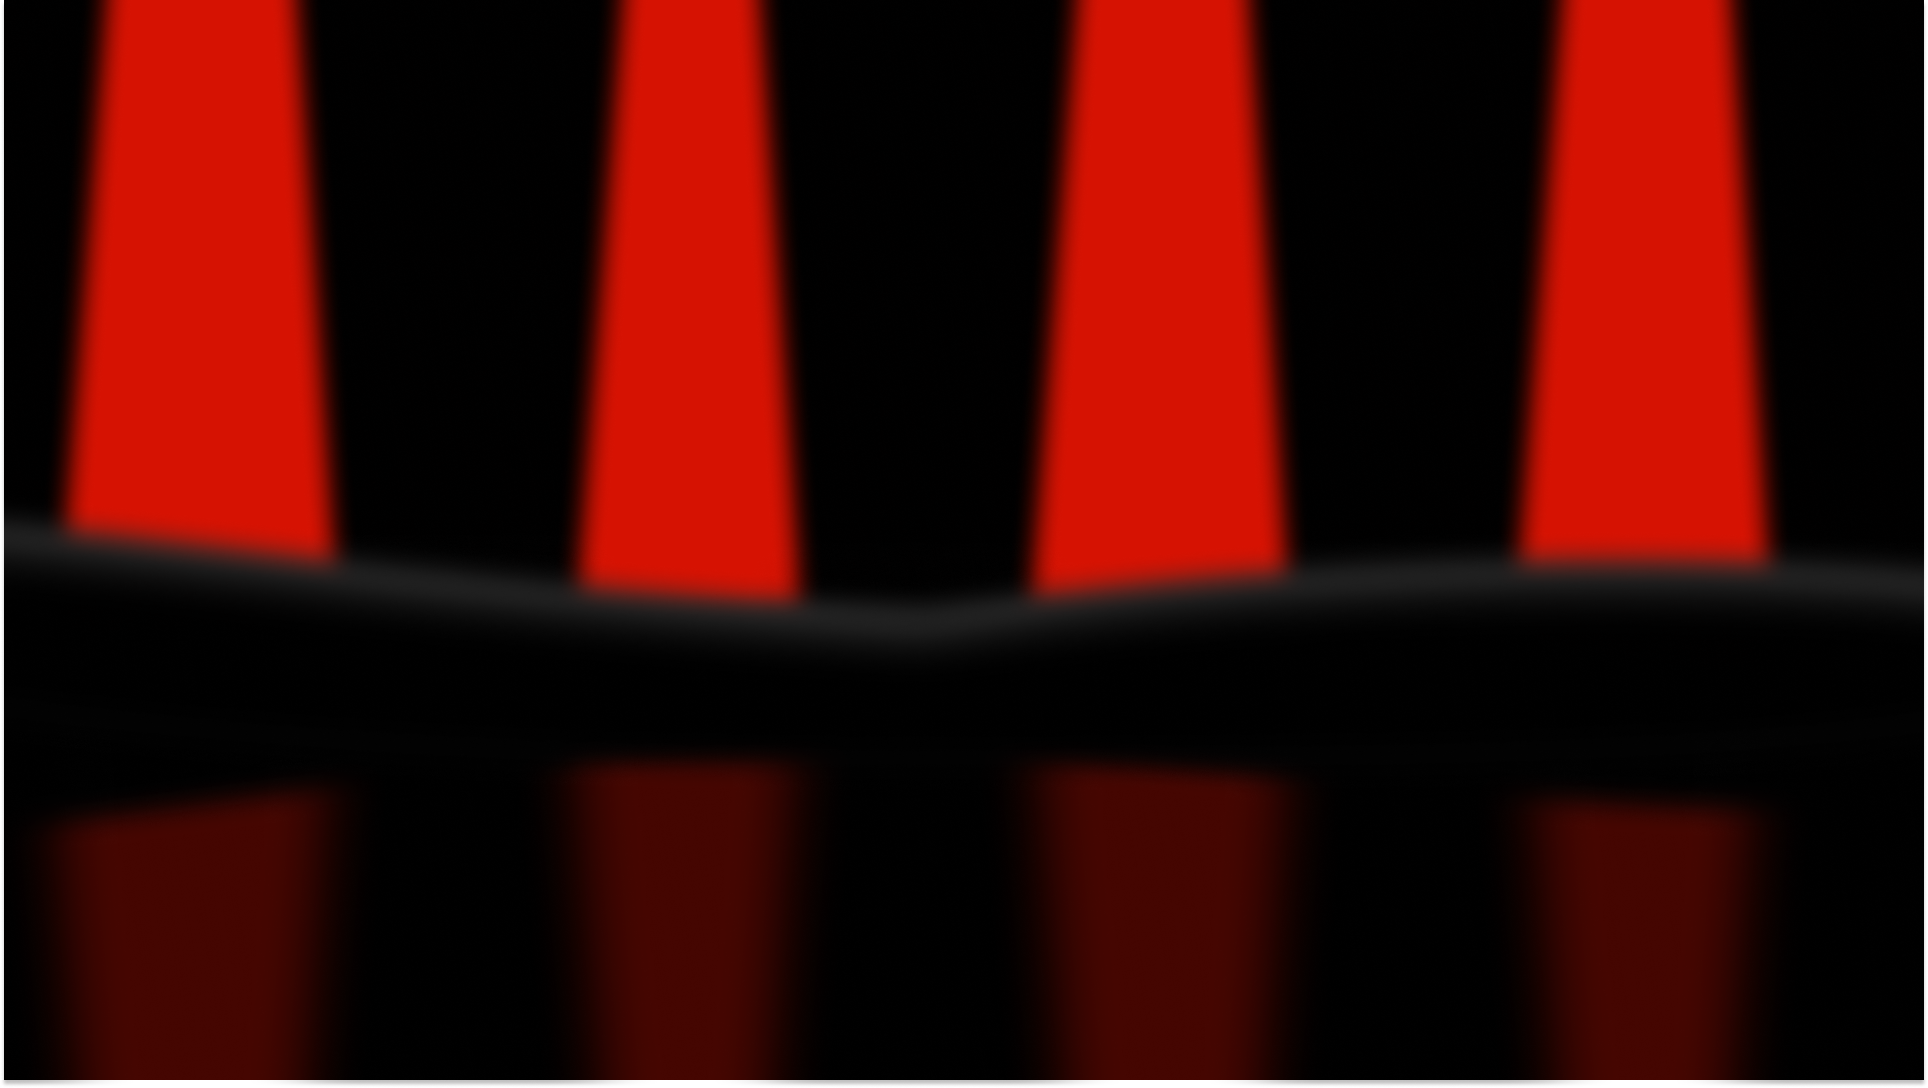
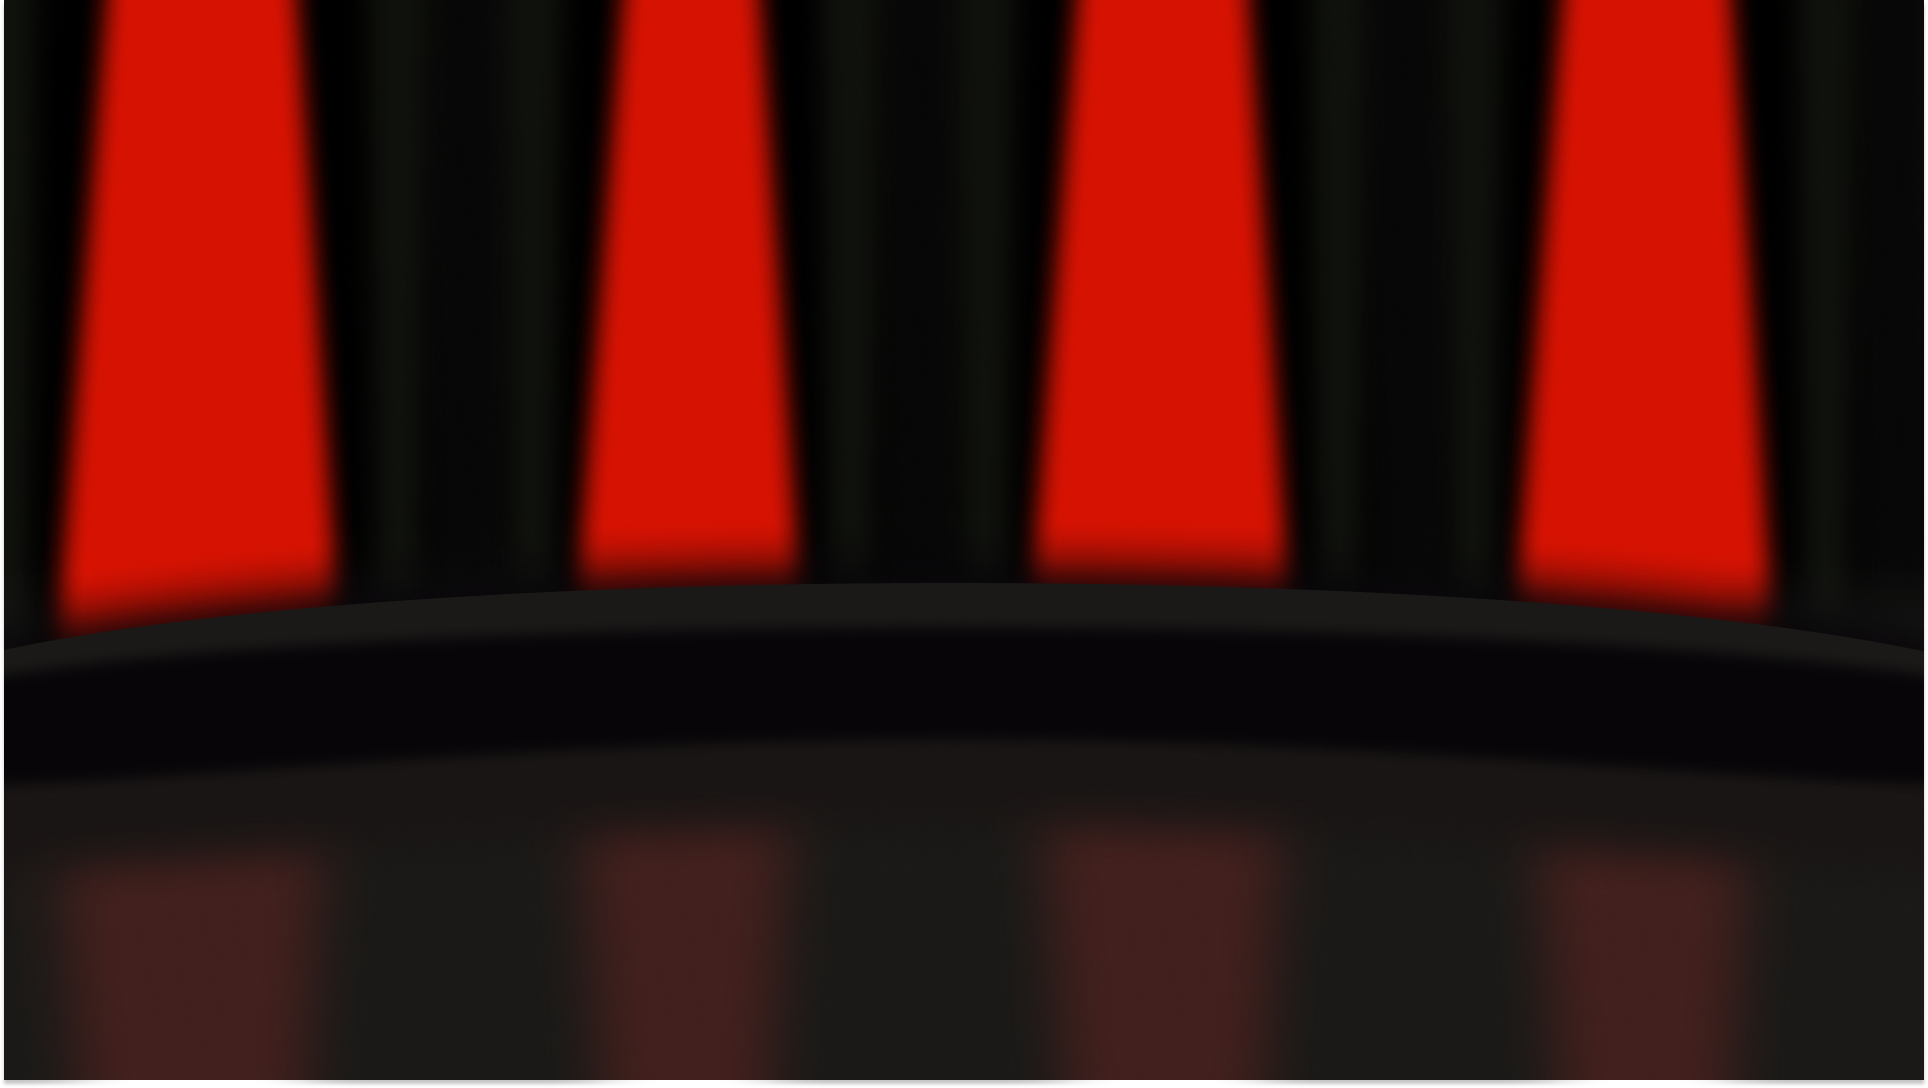
fix: fix background

diff --git a/components/main-3Dmodel/components/glassballwithsmallballs.tsx b/components/main-3Dmodel/components/glassballwithsmallballs.tsx
@@ -38,16 +38,16 @@ const cylinderGlassProps = {
 const cylinderMeshData = [
   { position: [0, 3.45, 0], args: [0.45, 0.45, 0.1, 40] },
   { position: [0, 3.32, 0], args: [0.45, 0.45, 0.1, 40] },
-  { position: [0, 4.3, 0], args: [0.45, 0.45, 0.06, 40] },
-  { position: [0, 4.37, 0], args: [0.45, 0.45, 0.06, 40] },
-  { position: [0, 5.3, 0], args: [0.45, 0.45, 0.06, 40] },
-  { position: [0, 5.23, 0], args: [0.45, 0.45, 0.06, 40] },
+  { position: [0, 4.25, 0], args: [0.45, 0.45, 0.06, 40] },
+  { position: [0, 4.32, 0], args: [0.45, 0.45, 0.06, 40] },
+  { position: [0, 5.33, 0], args: [0.45, 0.45, 0.06, 40] },
+  { position: [0, 5.26, 0], args: [0.45, 0.45, 0.06, 40] },
 ];
 
 const cylinderGlassMeshData = [
   { position: [0, 3.9, 0], args: [0.26, 0.26, 0.8, 40] },
   { position: [0, 5.9, 0], args: [0.26, 0.26, 1.3, 40] },
-  { position: [0, 5.6, 0], args: [0.4, 0.4, 0.06, 40] },
+  { position: [0, 5.6, 0], args: [0.4, 0.4, 0.08, 40] },
   { position: [0, 5.9, 0], args: [0.4, 0.4, 0.06, 40] },
   { position: [0, 6.2, 0], args: [0.4, 0.4, 0.06, 40] },
   { position: [0, 6.5, 0], args: [0.4, 0.4, 0.06, 40] },
@@ -86,10 +86,26 @@ const GlassBallWithSmallBalls = ({ cameraRef }) => {
   }, []);
 
   const startZoomAnimation = () => {
+    const is530 = window.matchMedia("(max-width: 530px)").matches;
+    const is768 = window.matchMedia("(max-width: 768px)").matches;
+    const is1024 = window.matchMedia("(max-width: 1024px)").matches;
+    const is1440 = window.matchMedia("(max-width: 1440px)").matches;
+    const isLargeScreen = window.matchMedia("(min-width: 1440px)").matches;
+
     gsap.to(cameraRef.current.position, {
-      x: -1,
+      x: is530
+        ? 0
+        : is768
+          ? -0.4
+          : is1024
+            ? -0.6
+            : is1440
+              ? -1.4
+              : isLargeScreen
+                ? -1
+                : -1, // Adjust x position for large screens
       y: 4.8,
-      z: 18,
+      z: is530 ? 22 : is768 ? 20 : 18, // Adjust z position for large screens
       duration: 2,
     });
   };
@@ -102,6 +118,64 @@ const GlassBallWithSmallBalls = ({ cameraRef }) => {
     return () => clearTimeout(zoomTimeout);
   }, [cameraRef]);
 
+  // useEffect(() => {
+  //   const animateBall = (index) => {
+  //     gsap.to(smallBalls[index].position, {
+  //       x: 0,
+  //       y: 3.2,
+  //       z: 0,
+  //       duration: 1,
+  //       onComplete: () => {
+  //         gsap.to(smallBalls[index].position, {
+  //           x: 0,
+  //           y: 4.1,
+  //           z: 0,
+  //           duration: 0.1,
+  //           onComplete: () => {
+  //             gsap.to(smallBalls[index].position, {
+  //               y: 4.8,
+  //               duration: 0.1,
+  //               onComplete: () => {},
+  //             });
+  //             gsap.to(smallBalls[index].scale, {
+  //               x: 2.2,
+  //               y: 2.2,
+  //               z: 2,
+  //               duration: 0.05,
+  //               onComplete: () => {
+  //                 gsap.to(smallBalls[index].scale, {
+  //                   x: 2.6,
+  //                   y: 2.6,
+  //                   z: 2,
+  //                   duration: 0.1,
+  //                 });
+  //                 setTimeout(() => {
+  //                   gsap.to(smallBalls[index].position, {
+  //                     y: 5.9,
+  //                     duration: 0.5,
+  //                   });
+  //                   gsap.to(smallBalls[index].scale, {
+  //                     x: 0,
+  //                     y: 0,
+  //                     z: 0,
+  //                     duration: 0.5,
+  //                   });
+  //                 }, 3000);
+  //               },
+  //             });
+  //           },
+  //         });
+  //       },
+  //     });
+  //   };
+
+  //   const interval = setInterval(() => {
+  //     const randomIndex = Math.floor(Math.random() * smallBalls.length);
+  //     animateBall(randomIndex);
+  //   }, 7000);
+
+  //   return () => clearInterval(interval);
+  // }, [smallBalls]);
   useEffect(() => {
     const animateBall = (index) => {
       gsap.to(smallBalls[index].position, {
@@ -119,32 +193,56 @@ const GlassBallWithSmallBalls = ({ cameraRef }) => {
               gsap.to(smallBalls[index].position, {
                 y: 4.8,
                 duration: 0.1,
-                onComplete: () => {},
-              });
-              gsap.to(smallBalls[index].scale, {
-                x: 2.2,
-                y: 2.2,
-                z: 2,
-                duration: 0.05,
                 onComplete: () => {
-                  gsap.to(smallBalls[index].scale, {
-                    x: 2.6,
-                    y: 2.6,
-                    z: 2,
+                  gsap.to(smallBalls[index].position, {
+                    y: 4.7,
                     duration: 0.1,
+                    ease: "bounce.out",
                   });
-                  setTimeout(() => {
-                    gsap.to(smallBalls[index].position, {
-                      y: 5.9,
-                      duration: 0.5,
-                    });
-                    gsap.to(smallBalls[index].scale, {
-                      x: 0,
-                      y: 0,
-                      z: 0,
-                      duration: 0.5,
-                    });
-                  }, 3000);
+                  gsap.to(smallBalls[index].position, {
+                    y: 4.8,
+                    duration: 0.1,
+                    delay: 0.1,
+                    ease: "bounce.out",
+                  });
+                  gsap.to(smallBalls[index].position, {
+                    y: 4.7,
+                    duration: 0.1,
+                    delay: 0.1,
+                    ease: "bounce.out",
+                  });
+                  gsap.to(smallBalls[index].position, {
+                    y: 4.8,
+                    duration: 0.1,
+                    delay: 0.1,
+                    ease: "bounce.out",
+                  });
+                  gsap.to(smallBalls[index].scale, {
+                    x: 2.2,
+                    y: 2.2,
+                    z: 2,
+                    duration: 0.05,
+                    onComplete: () => {
+                      gsap.to(smallBalls[index].scale, {
+                        x: 2.6,
+                        y: 2.6,
+                        z: 2,
+                        duration: 0.1,
+                      });
+                      setTimeout(() => {
+                        gsap.to(smallBalls[index].position, {
+                          y: 5.9,
+                          duration: 0.5,
+                        });
+                        gsap.to(smallBalls[index].scale, {
+                          x: 0,
+                          y: 0,
+                          z: 0,
+                          duration: 0.5,
+                        });
+                      }, 3000);
+                    },
+                  });
                 },
               });
             },
@@ -156,7 +254,7 @@ const GlassBallWithSmallBalls = ({ cameraRef }) => {
     const interval = setInterval(() => {
       const randomIndex = Math.floor(Math.random() * smallBalls.length);
       animateBall(randomIndex);
-    }, 7000); // Adjust the interval for ball movement
+    }, 7000);
 
     return () => clearInterval(interval);
   }, [smallBalls]);
@@ -174,7 +272,6 @@ const GlassBallWithSmallBalls = ({ cameraRef }) => {
       <pointLight position={[0, 0, 0]} intensity={2} distance={2} decay={1} />
       <pointLight position={[5, 5, 5]} intensity={2} distance={2} decay={1} />
       <pointLight position={[5, 5, 0]} intensity={2} distance={2} decay={1} />
-      <hemisphereLight groundColor={0x444444} intensity={1} />
 
       {cylinderGlassMeshData.map((data, index) =>
         createCylinderMesh(data.position, data.args, cylinderGlassProps),

diff --git a/components/main-3Dmodel/components/Animations/smallballsani.tsx b/components/main-3Dmodel/components/Animations/smallballsani.tsx
@@ -24,41 +24,41 @@ const SmallBallsAnimation: React.FC<SmallBallsAnimationProps> = ({
   const textures = useMemo(() => {
     return ballNumbers.map((number) => {
       const canvas = document.createElement("canvas");
-      canvas.width = 1024;
-      canvas.height = 1024;
+      canvas.width = 360;
+      canvas.height = 360;
       const context = canvas.getContext("2d");
 
       if (context) {
         context.fillStyle = "white";
         context.fillRect(0, 0, canvas.width, canvas.height);
-        context.font = "bold 200px Arail"; // Smaller font size for four places
+        context.font = "bold 85px Sansarif";
         context.fillStyle = "black";
 
         const positions =
           number >= 1 && number <= 9
             ? [
-                { x: 80, y: 240 },
-                { x: 0, y: 600 },
-                { x: 200, y: 560 },
-                { x: 160, y: 840 },
-                { x: 400, y: 240 },
-                { x: 360, y: 640 },
-                { x: 360, y: 920 },
-                { x: 0, y: 900 },
+                { x: -15, y: 100 },
+                { x: -10, y: 260 },
+                { x: 70, y: 290 },
+                { x: 80, y: 90 },
+                { x: 150, y: 100 },
+                { x: 65, y: 180 }, // center
+                { x: -20, y: 180 },
+                { x: 150, y: 200 },
+                { x: 150, y: 290 },
               ]
             : [
-                { x: 80, y: 240 },
-                { x: -80, y: 600 },
-                { x: 160, y: 560 },
-                { x: 160, y: 840 },
-                { x: 400, y: 240 },
-                { x: 440, y: 640 },
-                { x: 400, y: 860 },
-                { x: -80, y: 900 },
+                { x: -40, y: 100 },
+                { x: 120, y: 280 },
+                { x: -20, y: 290 },
+                { x: 100, y: 90 },
+                { x: 45, y: 190 }, //center
+                { x: 140, y: 180 },
+                { x: -50, y: 200 },
               ];
 
         positions.forEach((pos) => {
-          const rotationAngle = (Math.random() * Math.PI) / 8 - Math.PI / 16; // Rotate between -11.25 and 11.25 degrees
+          const rotationAngle = (Math.random() * Math.PI) / 7 - Math.PI / 16;
           context.save();
           context.translate(pos.x + 20, pos.y + 20);
           context.rotate(rotationAngle);
@@ -183,7 +183,7 @@ const SmallBallsAnimation: React.FC<SmallBallsAnimationProps> = ({
       return () => {
         clearTimeout(stopAnimationTimeout);
       };
-    }, 1000);
+    }, 500);
   }, [smallBalls, velocities, textures, camera]);
 
   return null;

diff --git a/components/main-3Dmodel/components/glassball.tsx b/components/main-3Dmodel/components/glassball.tsx
@@ -1,6 +1,5 @@
 import React, { useEffect, useState } from "react";
 import * as THREE from "three";
-import { TextureLoader } from "three";
 
 interface GlassBallProps {
   position?: THREE.Vector3;
@@ -15,19 +14,6 @@ const GlassBall: React.FC<GlassBallProps> = ({
   castShadow = false,
   receiveShadow = false,
 }) => {
-  const [reflectionTexture, setReflectionTexture] = useState<THREE.Texture | null>(null);
-
-  useEffect(() => {
-    const textureLoader = new TextureLoader();
-
-    // Load the texture
-    textureLoader.load("/assets/imgs/bg.png", (texture) => {
-      setReflectionTexture(texture);
-    }, undefined, (error) => {
-      console.error("An error occurred while loading the texture:", error);
-    });
-  }, []);
-
   return (
     <mesh
       position={position}
@@ -35,22 +21,17 @@ const GlassBall: React.FC<GlassBallProps> = ({
       receiveShadow={receiveShadow}
     >
       <sphereGeometry args={[size, 128, 128]} />
-      {reflectionTexture ? (
-        <meshPhysicalMaterial
-          metalness={0.5}
-          roughness={0}
-          transmission={1}
-          ior={1.5} // Typically glass has an IOR around 1.5
-          transparent={true}
-          opacity={0.3} // Adjust opacity as needed
-          reflectivity={1}
-          side={THREE.DoubleSide}
-          envMap={reflectionTexture}
-        />
-      ) : (
-        // Fallback material while loading
-        <meshBasicMaterial color={0x888888} />
-      )}
+      <meshPhysicalMaterial
+        metalness={0.5}
+        roughness={0}
+        transmission={1}
+        ior={2.33}
+        transparent={true}
+        opacity={0.35}
+        reflectivity={1}
+        side={THREE.DoubleSide}
+        // envMap={reflectionTexture}
+      />
     </mesh>
   );
 };
